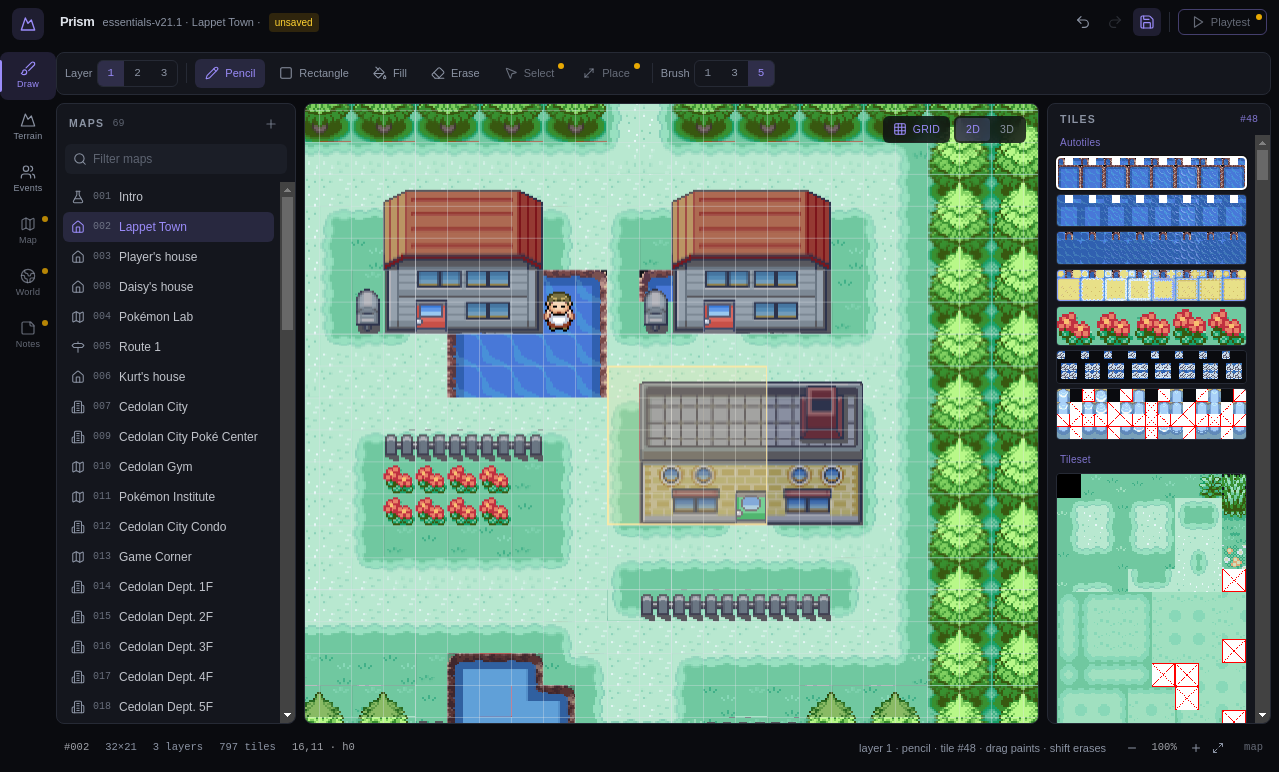
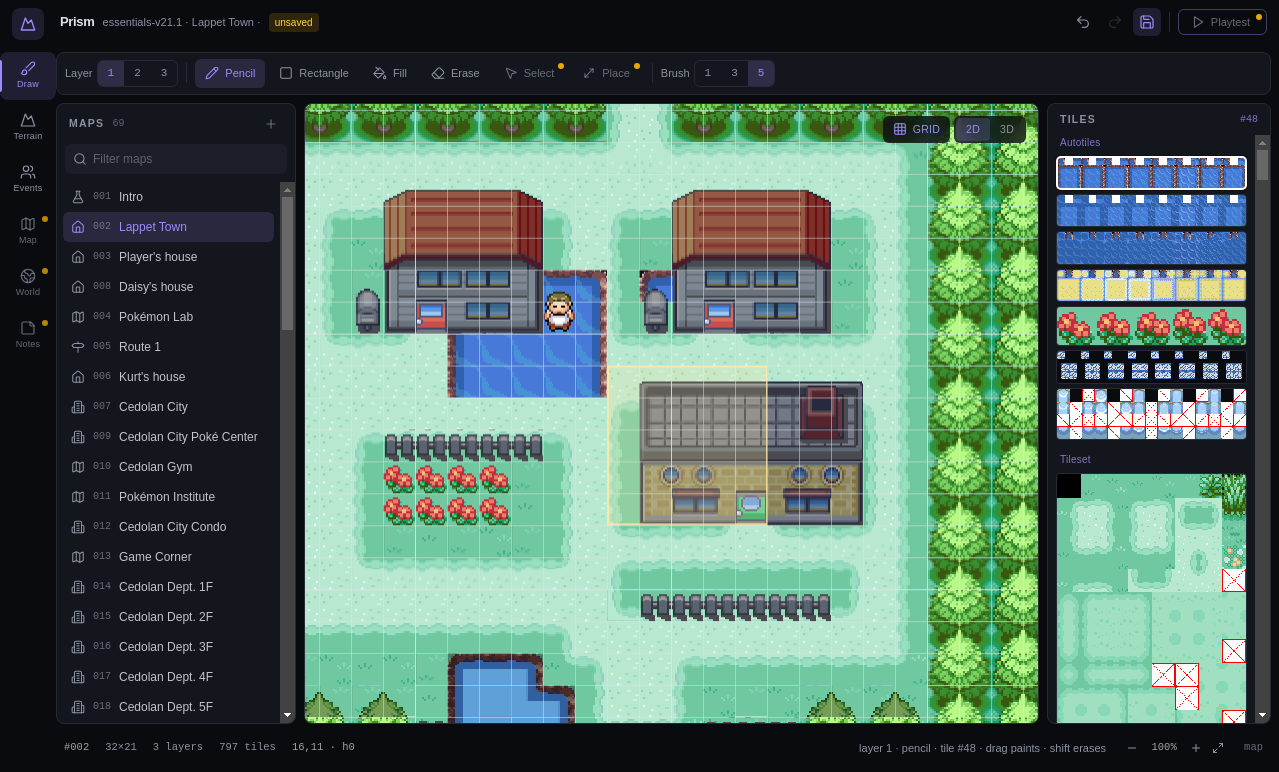
Reforcar a grade e o escurecimento das camadas
Grade de 0,35 e 0,6 para 0,5 e 0,85. Camadas fora de foco de 0,68 e 0,52 para
0,5 e 0,36, o que aumenta o contraste com a camada que esta sendo editada sem
esconder o que existe nas outras.

Claude-Session: https://claude.ai/code/session_015tLAZHL6PNxbo6Qgs82MPs

diff --git a/packages/editor/src/ui/viewport/scene3d.ts b/packages/editor/src/ui/viewport/scene3d.ts
@@ -764,8 +764,8 @@ export function createViewport(canvas: HTMLCanvasElement): Viewport {
     };
 
     grid = {
-      minor: lines(minor, 0xdfe3ea, 0.35),
-      major: lines(major, 0xdfe3ea, 0.6),
+      minor: lines(minor, 0xdfe3ea, 0.5),
+      major: lines(major, 0xdfe3ea, 0.85),
     };
     paintGrid();
   }
@@ -801,8 +801,8 @@ export function createViewport(canvas: HTMLCanvasElement): Viewport {
         activeLayer === null || layer === activeLayer
           ? 1
           : layer < activeLayer
-            ? 0.68
-            : 0.52;
+            ? 0.5
+            : 0.36;
       material.color.setScalar(shade);
     }
   }
